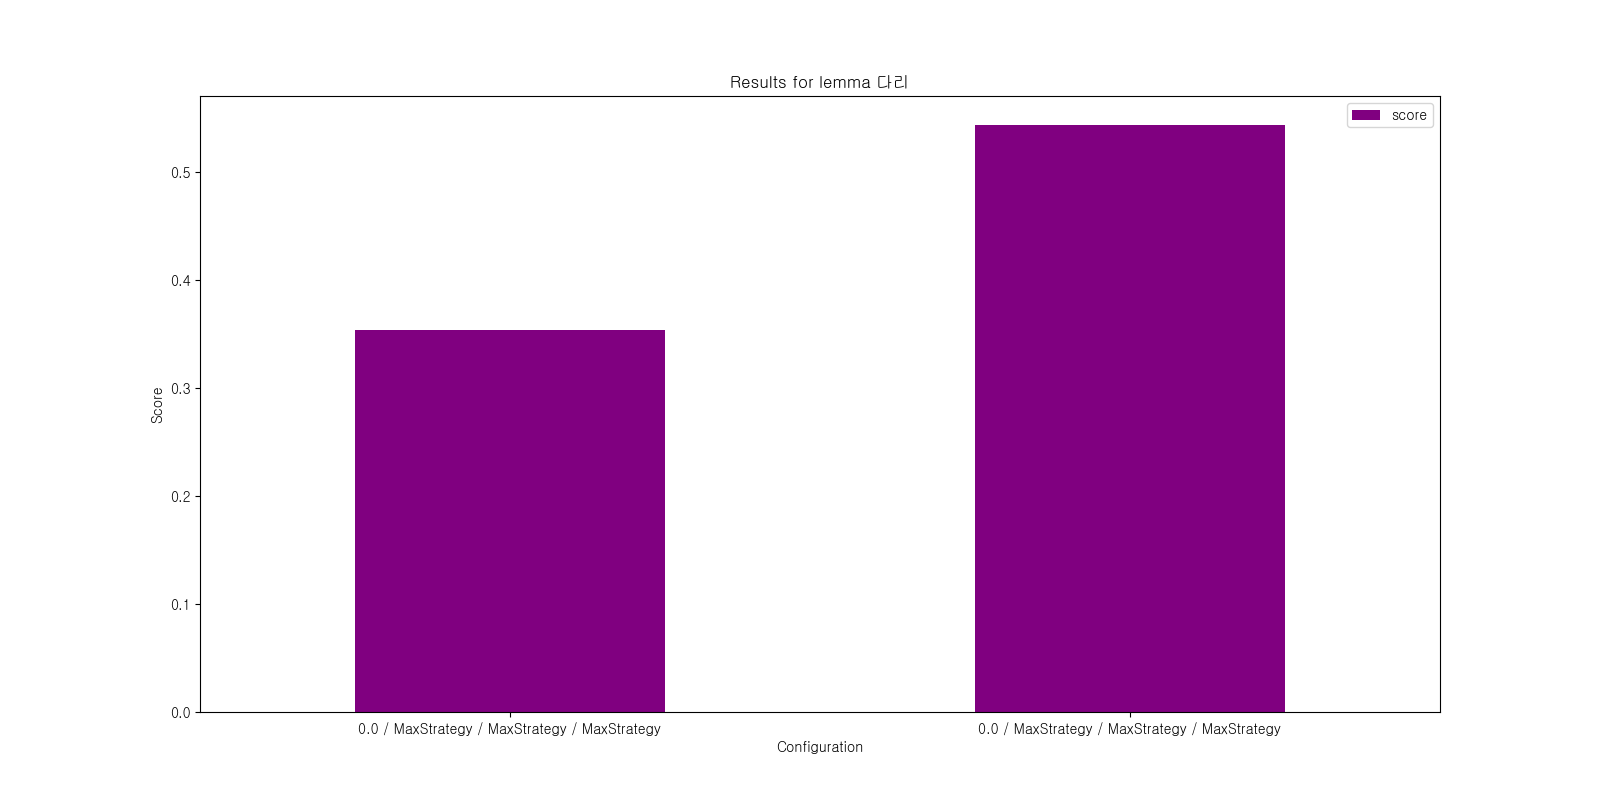
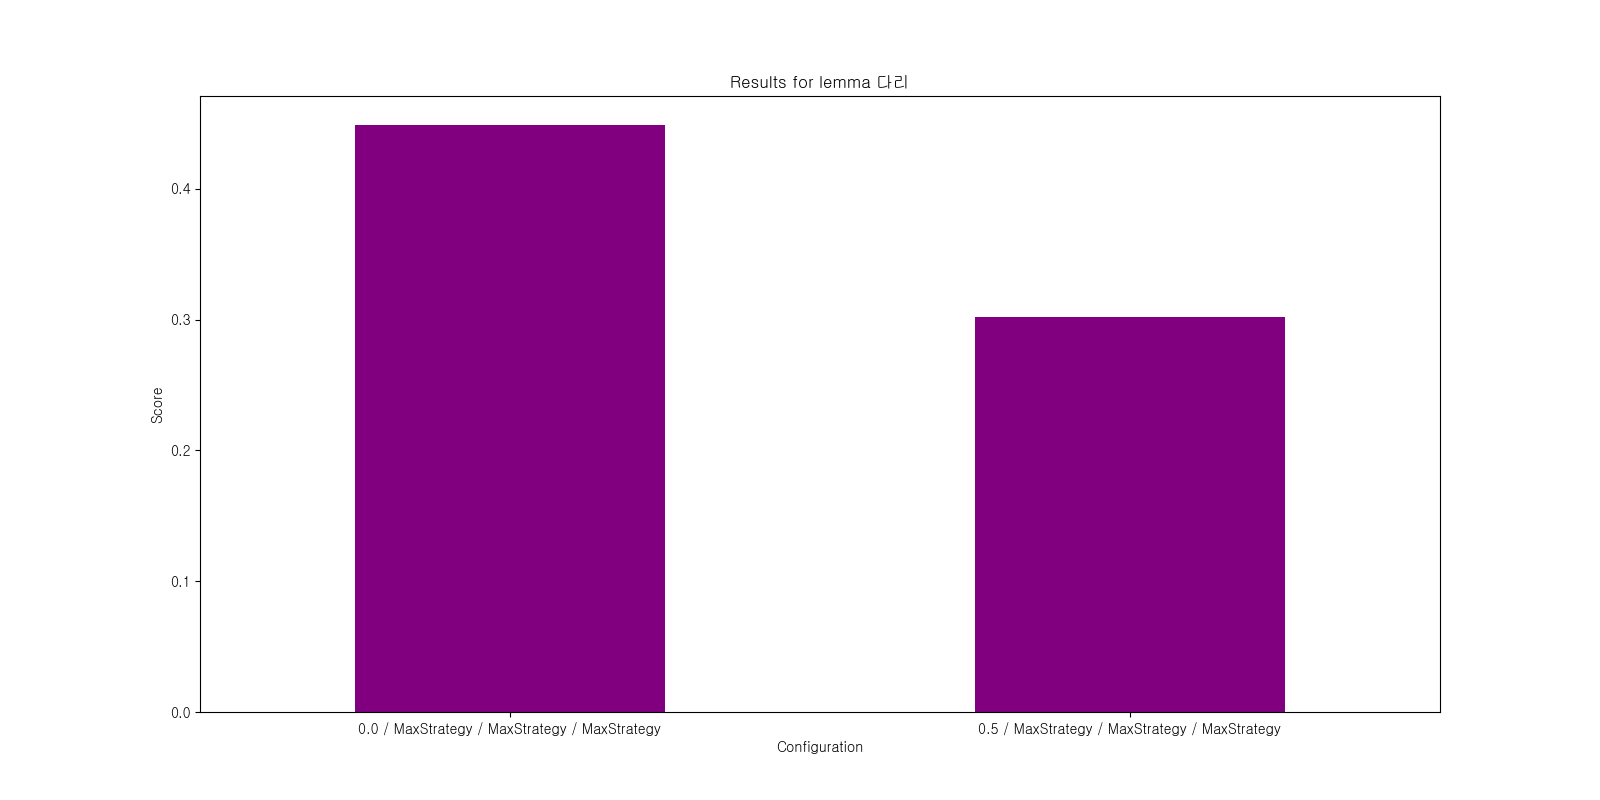
fixed config of single file running

Changed region(s): [[0.2188, 0.1562, 0.4375, 0.4375], [0.5938, 0.1562, 0.8125, 0.4062], [0.8438, 0.125, 0.9062, 0.1562]]

diff --git a/run_single_test.py b/run_single_test.py
@@ -58,13 +58,11 @@ def read_from_file(
 
 
 def do_matching_usage_algorithm(
-    language: Language, test_case_data: TestCaseForMatchingKnownUsages
+    disambiguator_args, test_case_data: TestCaseForMatchingKnownUsages
 ):
     from match_usage_sense_disambiguator import MatchingUsageHeadwordDisambiguator
 
-    sd = MatchingUsageHeadwordDisambiguator(
-        language, 0.0, AverageStrategy, MaxStrategy, AverageStrategy
-    )
+    sd = MatchingUsageHeadwordDisambiguator(*disambiguator_args)
 
     for unknown_usage_example in test_case_data.unknown_usage_examples:
 
@@ -85,16 +83,39 @@ def do_matching_usage_algorithm(
         )
 
 
+def string_to_flattening_strategy(string: str):
+    if string == "max":
+        return MaxStrategy
+    if string == "average":
+        return AverageStrategy
+    raise ValueError(f"Unknown strategy supplied '{string}'")
+
+
 if __name__ == "__main__":
 
     args = sys.argv
 
-    # if len(args) < 4:
-    #    raise ValueError(
-    #        """Usage: `python run_single_test.py <language> <filepath> <weighing policy class name> <match usage>`"""
-    #    )
+    if len(args) < 7:
+        raise ValueError(
+            """Usage: `python run_single_test.py 
+            <language> 
+            <filepath> 
+            <definition_weight>
+            <known_usage_similarity_flattener>
+            <sense_similarity_flattener>
+            <definition_similarity_flatten>`"""
+        )
 
-    filepath = "inputs/kor/matching_usage/타다.json"
+    if args[1] not in ["korean", "english"]:
+        raise ValueError(f"Unknown language supplied '{args[1]}'")
+
+    disambiguator_args = [
+        args[1],
+        float(args[3]),
+        *[string_to_flattening_strategy(string) for string in args[4:7]],
+    ]
+
+    filepath = "inputs/kor/타다.json"
 
     test_case_data = read_from_file(filepath)
-    do_matching_usage_algorithm(args[1], test_case_data)
+    do_matching_usage_algorithm(disambiguator_args, test_case_data)

diff --git a/write_result_files.py b/write_result_files.py
@@ -9,6 +9,7 @@ def write_result_files(results, columns_in_results, path_to_dir):
     rc("font", family="New Gulim")
 
     df = pd.DataFrame(results, columns=columns_in_results)
+    combine_config_columns(df)
 
     write_all_lemma_files(df, path_to_dir)
     write_aggregated_file(df, path_to_dir)
@@ -16,14 +17,14 @@ def write_result_files(results, columns_in_results, path_to_dir):
 
 def write_all_lemma_files(df: pd.DataFrame, path_to_dir: str):
 
-    combine_config_columns(df)
-
     lemmas = df["lemma"].unique()
 
     for lemma in lemmas:
         os.makedirs(os.path.dirname(f"{path_to_dir}/lemmas/{lemma}.png"), exist_ok=True)
 
         data_for_lemma_df = df[df["lemma"] == lemma]
+
+        data_for_lemma_df = data_for_lemma_df.groupby("combined_config")["score"].mean()
 
         data_for_lemma_df.plot(
             kind="bar",
@@ -54,9 +55,7 @@ def combine_config_columns(df: pd.DataFrame):
 
 def write_aggregated_file(df: pd.DataFrame, path_to_dir: str):
 
-    combine_config_columns(df)
-
-    aggregated_df = df.groupby("combined_config")["score"].mean().reset_index()
+    aggregated_df = df.groupby("combined_config")["score"].mean()
 
     os.makedirs(os.path.dirname(f"{path_to_dir}/aggregated.png"), exist_ok=True)
 

diff --git a/run_all_tests.py b/run_all_tests.py
@@ -10,13 +10,13 @@ from write_result_files import write_result_files
 
 all_configs = [
     # Definition weights tested
-    [0.0],
+    [0.0, 0.1, 0.2],
     # Known usage similarity flatteners tested
-    [MaxStrategy],
+    [MaxStrategy, AverageStrategy],
     # Sense similarity flatteners tested
-    [MaxStrategy],
+    [MaxStrategy, AverageStrategy],
     # Definition similarity flatteners tested
-    [MaxStrategy],
+    [MaxStrategy, AverageStrategy],
 ]
 config_combinations = product(*all_configs)
 

diff --git a/embedder.py b/embedder.py
@@ -14,7 +14,7 @@ class Embedder:
         self.tokenizer.add_special_tokens(added_target_word_tokens)
 
         self.model = BertModel.from_pretrained(pretrained_model)
-        self.model.resize_token_embeddings(len(self.tokenizer))
+        self.model.resize_token_embeddings(len(self.tokenizer), mean_resizing=True)
 
     def get_embedding_from_tgt_marked_text(self, text: str) -> torch.Tensor:
         inputs = self.tokenizer(text, return_tensors="pt", add_special_tokens=True)
